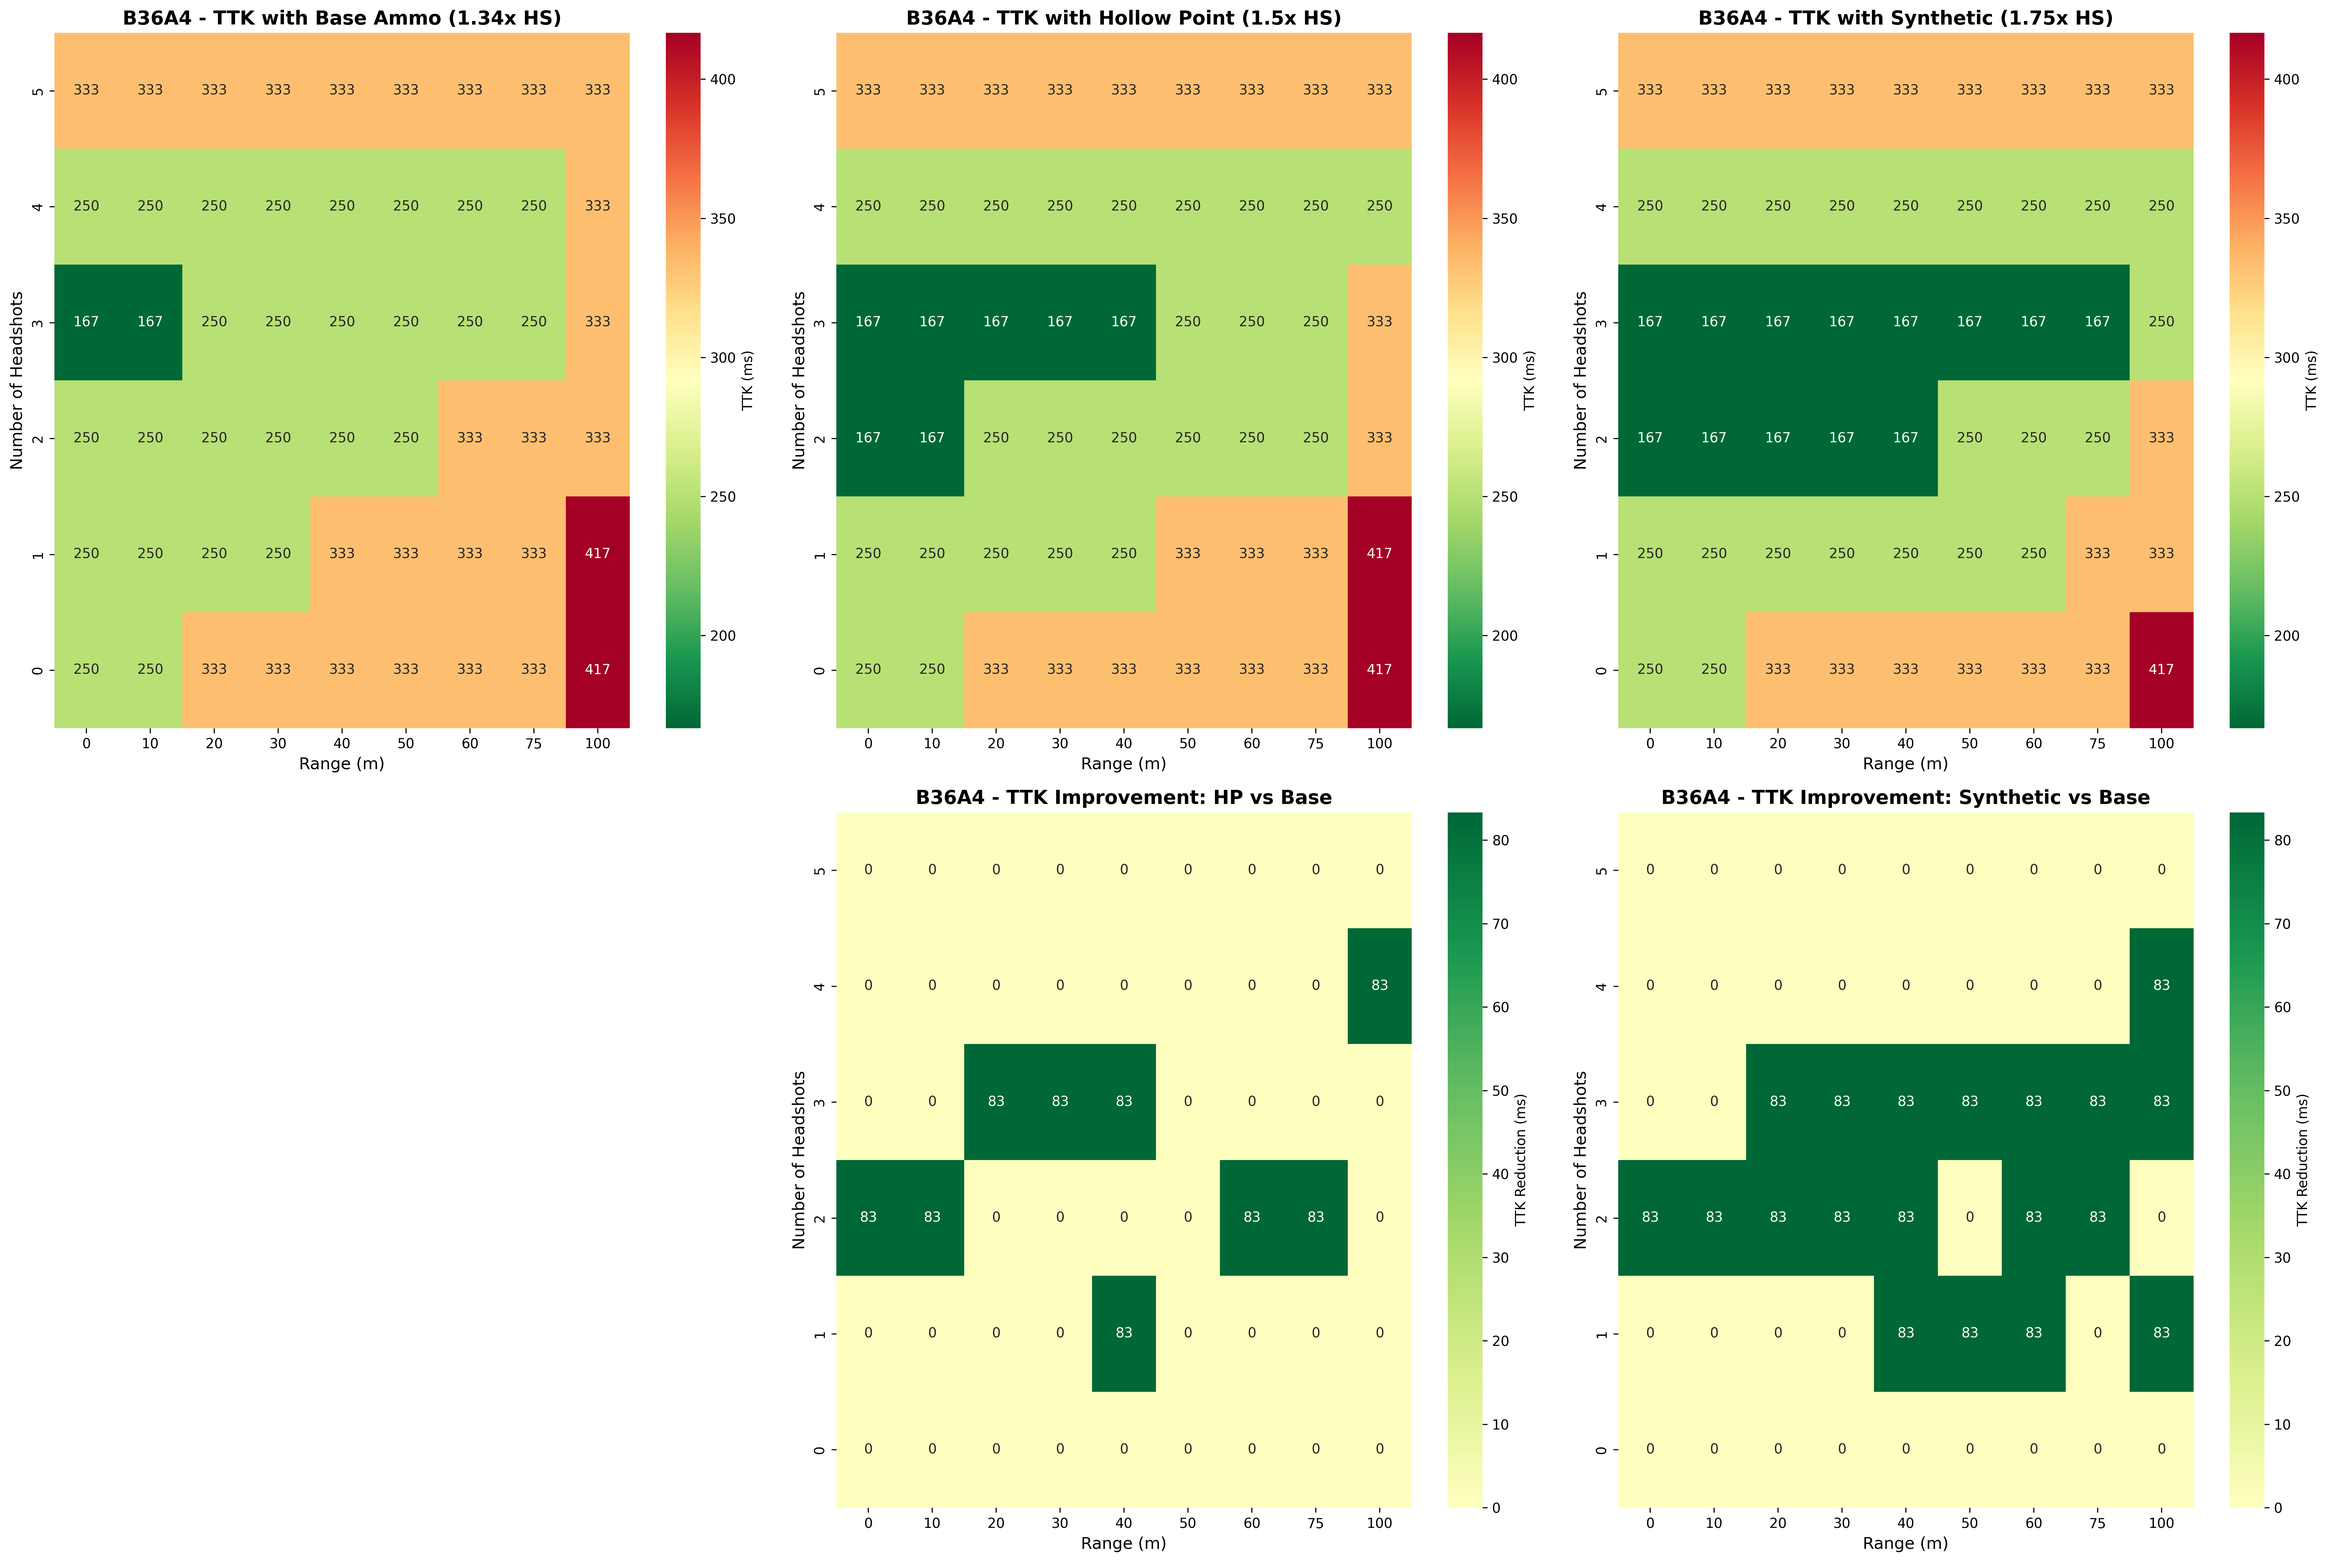
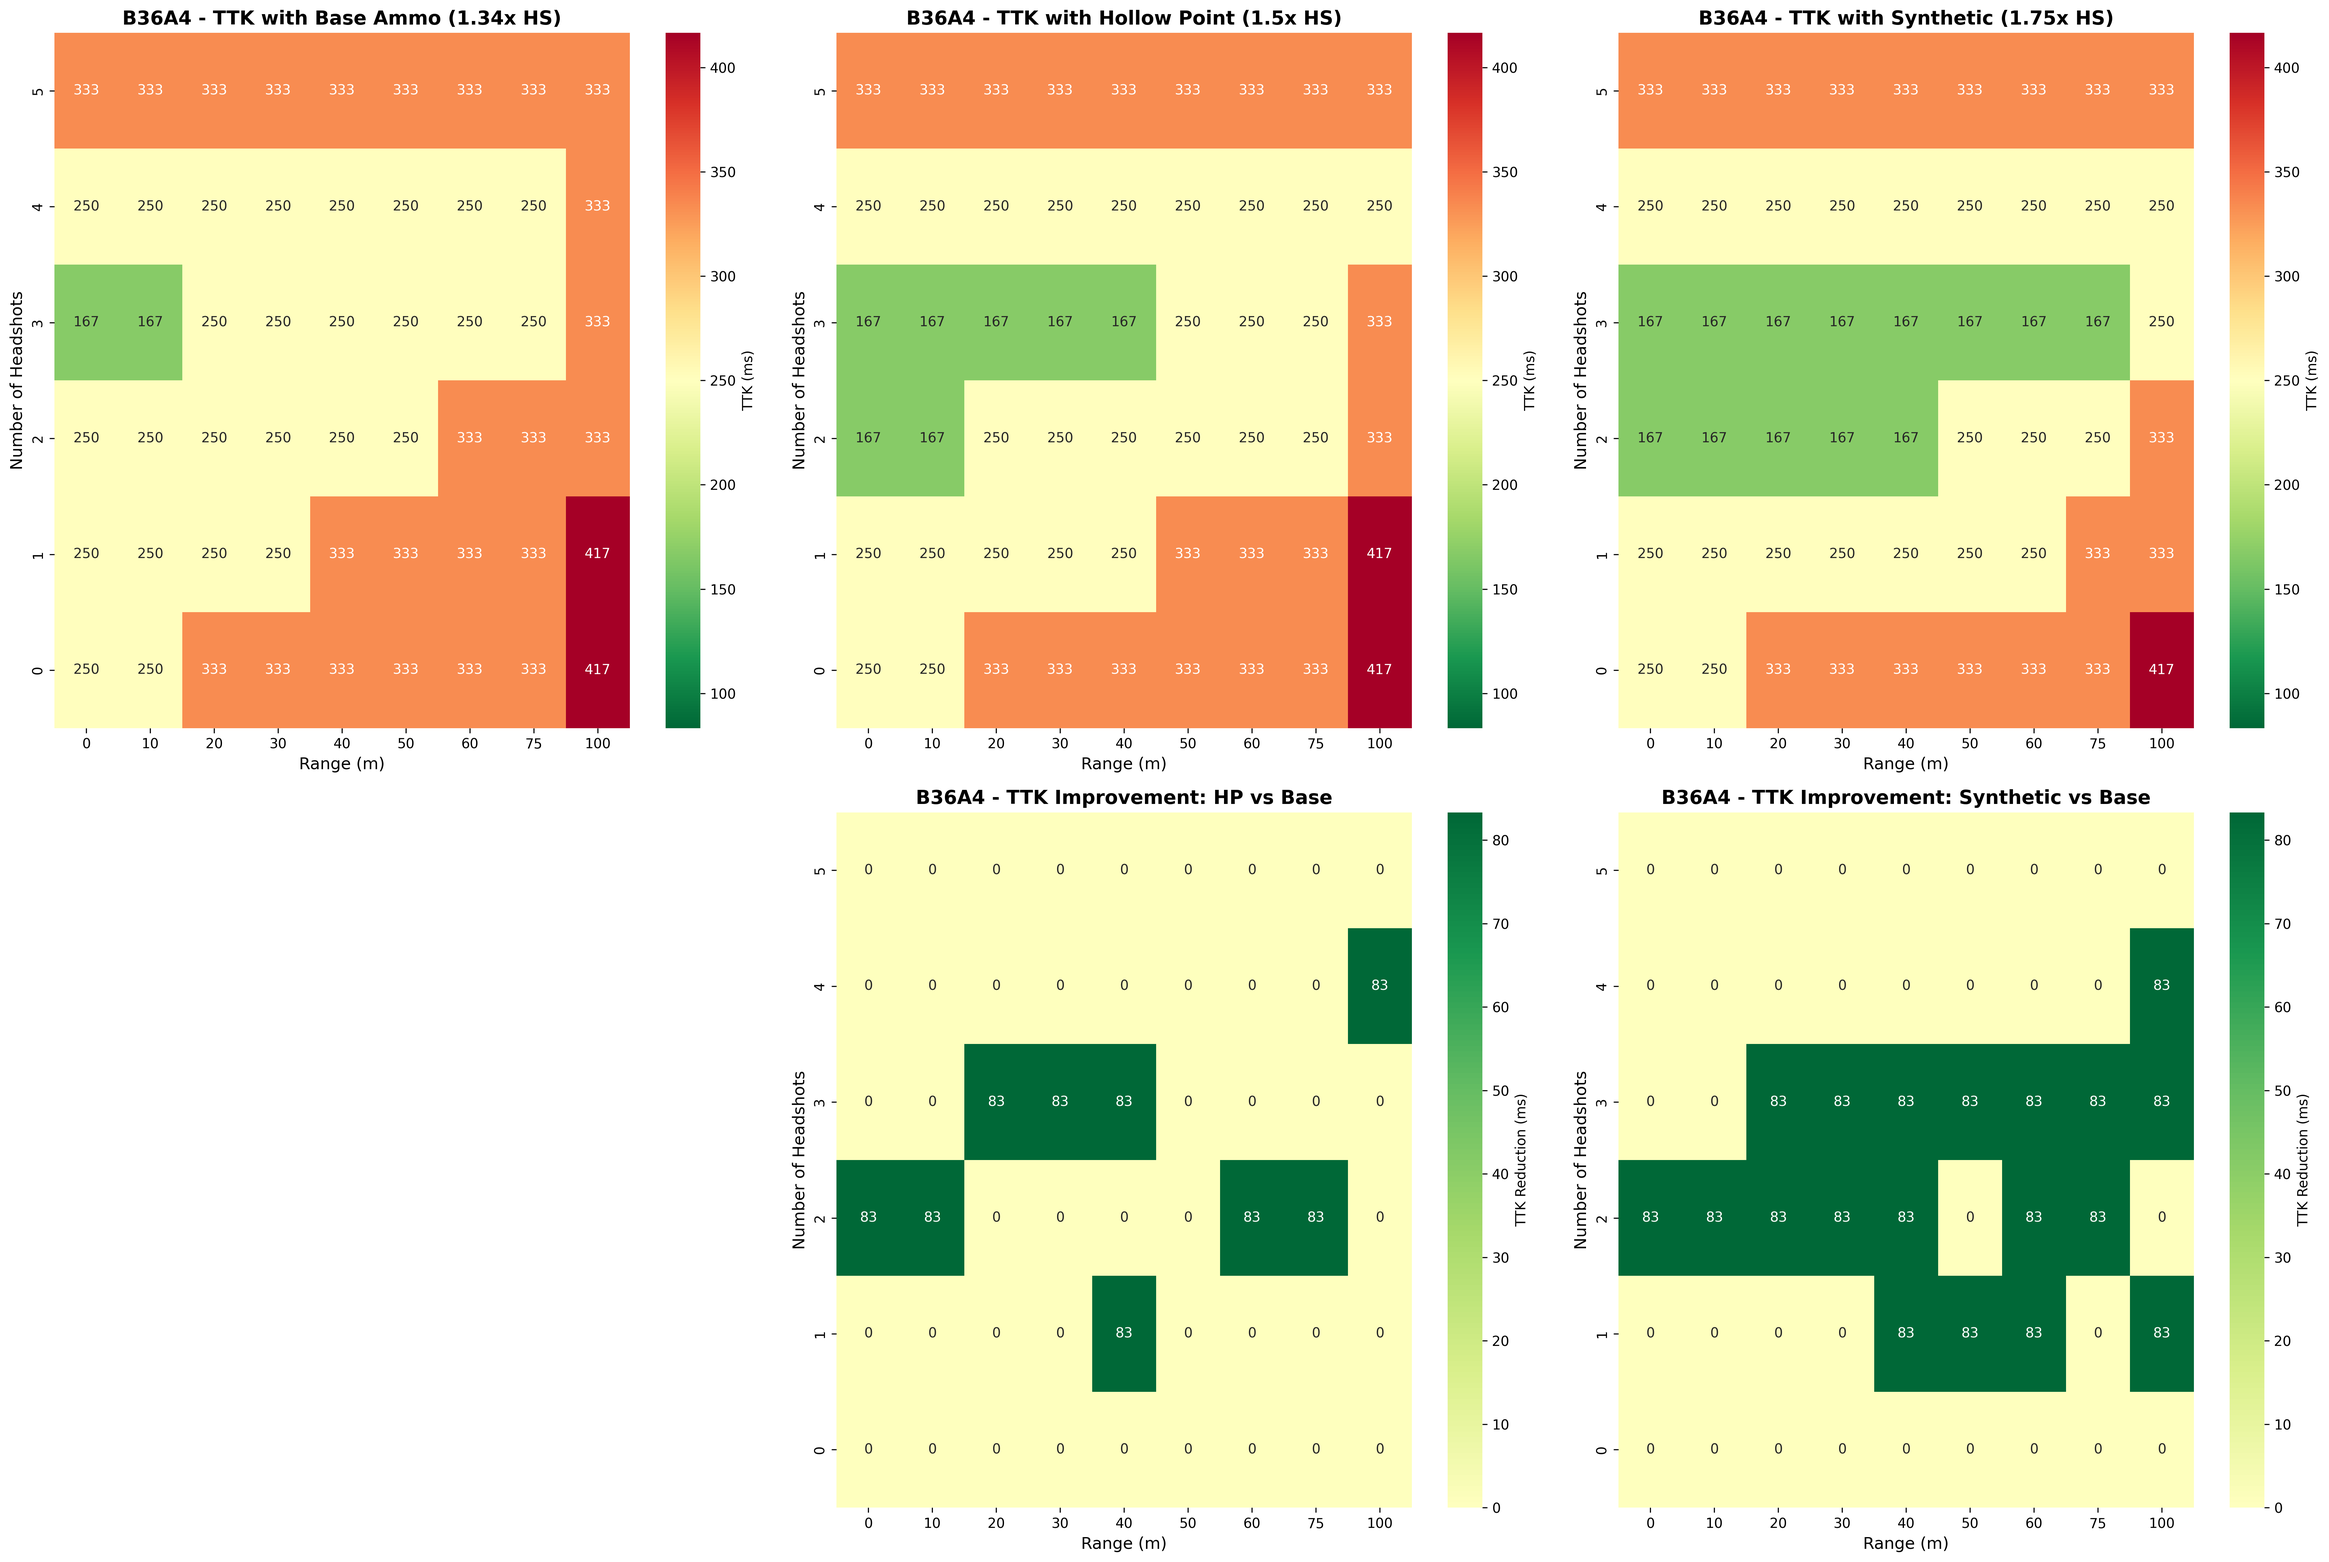
Fix: Both 100HP and 80HP now use identical color scales for visual continuity

diff --git a/analyze_ttk_all_weapons.py b/analyze_ttk_all_weapons.py
@@ -58,7 +58,7 @@ TARGET_HP = 100
 RANGES = [0, 10, 20, 30, 40, 50, 60, 75, 100]
 MAX_HS = 5
 
-def calculate_stk_ttk(base_dmg, rof, hs_mult, num_hs):
+def calculate_stk_ttk(base_dmg, rof, hs_mult, num_hs, target_hp=100):
     """Calculate STK and TTK for given parameters"""
     if base_dmg <= 0 or rof <= 0:
         return np.inf, np.inf
@@ -72,7 +72,7 @@ def calculate_stk_ttk(base_dmg, rof, hs_mult, num_hs):
         total_shots = num_hs + body_shots
         total_damage = (base_dmg * hs_mult * num_hs) + (base_dmg * body_shots)
         
-        if total_damage >= TARGET_HP:
+        if total_damage >= target_hp:
             stk = total_shots
             ttk = (stk - 1) * (60 / rof) * 1000  # in ms
             if stk < best_stk:
@@ -90,7 +90,7 @@ for weapon_class in unique_classes:
     os.makedirs(f'visualizations/TTK_ANALYSIS/{weapon_class}', exist_ok=True)
 
 print(f"\n{'='*80}")
-print(f"GENERATING TTK ANALYSIS FOR ALL WEAPONS")
+print(f"GENERATING TTK ANALYSIS FOR ALL WEAPONS (100 HP with shared 80 HP color scale)")
 print(f"{'='*80}\n")
 
 # Process each weapon
@@ -105,7 +105,35 @@ for idx, weapon_row in df.iterrows():
     
     print(f"Processing: {gun_name} ({weapon_class})")
     
-    # Calculate TTK for all ranges and headshot combinations
+    # Calculate TTK for BOTH 100HP and 80HP to find shared color scale
+    all_ttk_values = []
+    
+    for target_hp in [100, 80]:
+        for r in RANGES:
+            current_dmg = extrapolate_damage(dmg_close, dmg_10m, dmg_75m, r)
+            
+            for num_hs in range(MAX_HS + 1):
+                # Base ammo
+                _, base_ttk = calculate_stk_ttk(current_dmg, rof, BASE_HS_MULT, num_hs, target_hp)
+                if base_ttk != np.inf:
+                    all_ttk_values.append(base_ttk)
+                
+                # HP ammo
+                _, hp_ttk = calculate_stk_ttk(current_dmg, rof, HP_MULT, num_hs, target_hp)
+                if hp_ttk != np.inf:
+                    all_ttk_values.append(hp_ttk)
+                
+                # Synthetic ammo (if available)
+                if ammo_type == 'Synthetic':
+                    _, synth_ttk = calculate_stk_ttk(current_dmg, rof, SYNTH_MULT, num_hs, target_hp)
+                    if synth_ttk != np.inf:
+                        all_ttk_values.append(synth_ttk)
+    
+    # Calculate shared color scale
+    global_ttk_min = min(all_ttk_values)
+    global_ttk_max = max(all_ttk_values)
+    
+    # Now calculate 100HP results for plotting
     results = []
     for r in RANGES:
         current_dmg = extrapolate_damage(dmg_close, dmg_10m, dmg_75m, r)
@@ -157,9 +185,9 @@ for idx, weapon_row in df.iterrows():
         pivot_synth = df_results[df_results['Ammo'] == 'Synth'].pivot(index='Headshots', columns='Range', values='TTK_ms')
         pivot_synth = pivot_synth.iloc[::-1]
         
-        # Find shared color scale range for TTK plots
-        ttk_min = min(pivot_base.min().min(), pivot_hp.min().min(), pivot_synth.min().min())
-        ttk_max = max(pivot_base.max().max(), pivot_hp.max().max(), pivot_synth.max().max())
+        # USE GLOBAL COLOR SCALE (shared with 80HP version)
+        ttk_min = global_ttk_min
+        ttk_max = global_ttk_max
         
         # Top Row: TTK Heatmaps
         # 1. Base ammo
@@ -231,9 +259,9 @@ for idx, weapon_row in df.iterrows():
         pivot_hp = df_results[df_results['Ammo'] == 'HP'].pivot(index='Headshots', columns='Range', values='TTK_ms')
         pivot_hp = pivot_hp.iloc[::-1]
         
-        # Find shared color scale range for TTK plots
-        ttk_min = min(pivot_base.min().min(), pivot_hp.min().min())
-        ttk_max = max(pivot_base.max().max(), pivot_hp.max().max())
+        # USE GLOBAL COLOR SCALE (shared with 80HP version)
+        ttk_min = global_ttk_min
+        ttk_max = global_ttk_max
         
         # 1. Base ammo
         ax1 = axes[0, 0]
@@ -273,7 +301,7 @@ for idx, weapon_row in df.iterrows():
     plt.savefig(output_path, dpi=300, bbox_inches='tight')
     plt.close()
     
-    print(f"  Saved: {output_path}")
+    print(f"  Saved: {output_path} (color scale: {ttk_min:.0f}-{ttk_max:.0f}ms)")
 
 print(f"\n{'='*80}")
 print(f"COMPLETED: All TTK analyses saved to visualizations/TTK_ANALYSIS/")
